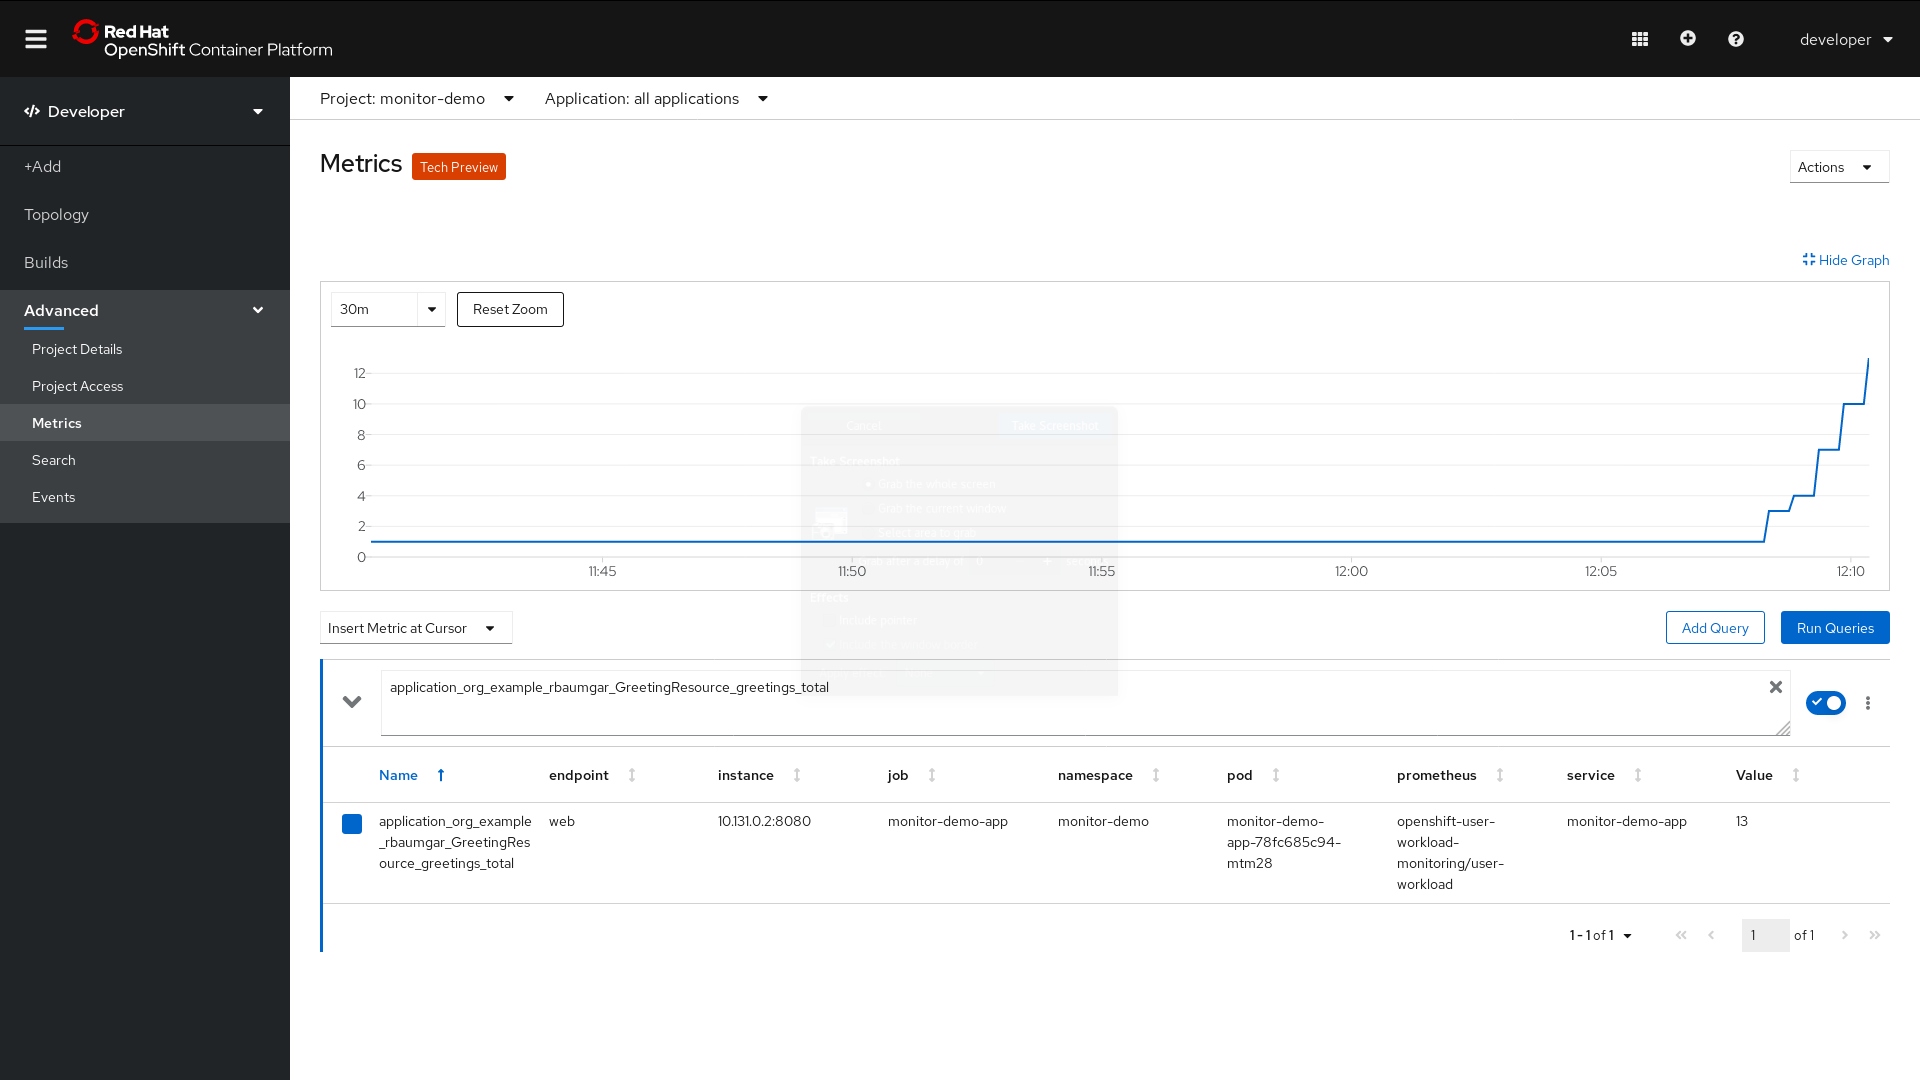
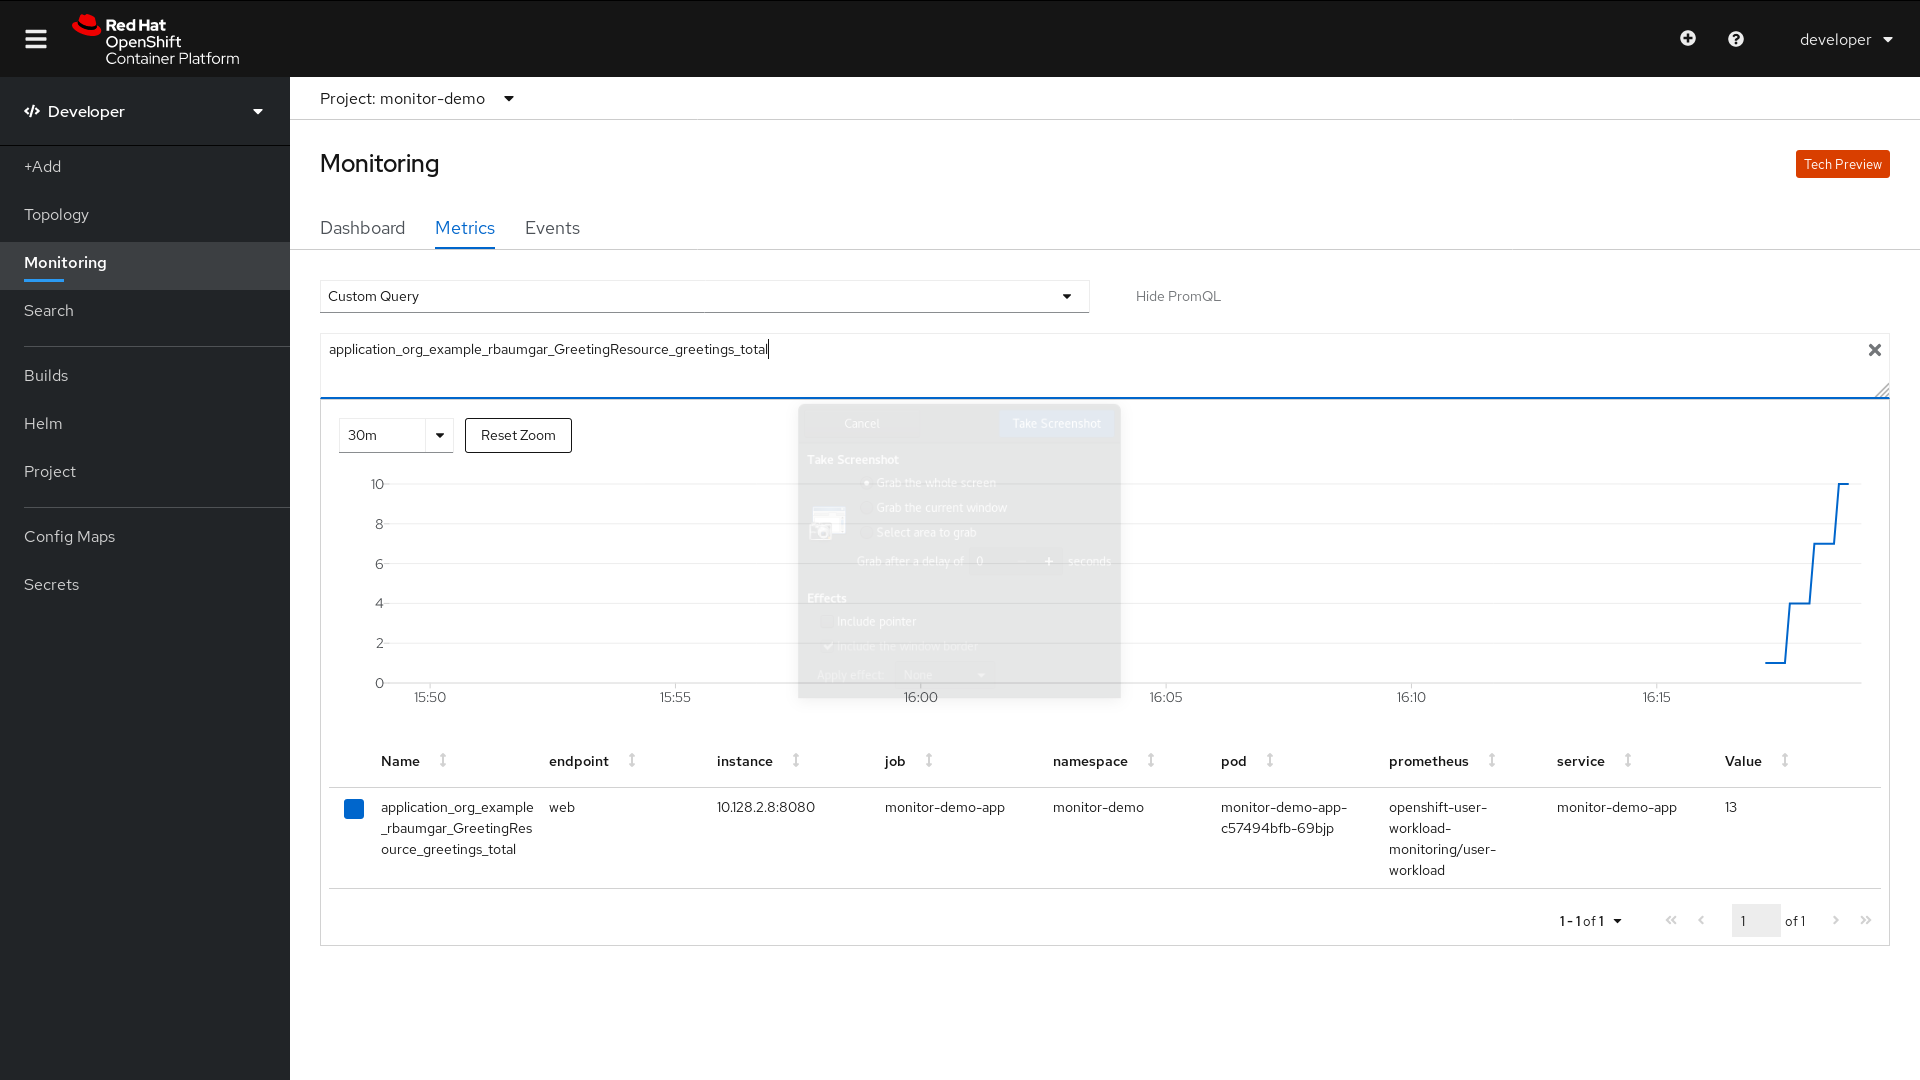
update OpenShift 4.5

diff --git a/src/main/java/org/example/rbaumgar/GreetingResource.java b/src/main/java/org/example/rbaumgar/GreetingResource.java
@@ -2,6 +2,8 @@ package org.example.rbaumgar;
 
 import org.eclipse.microprofile.metrics.annotation.Counted;
 
+import io.quarkus.vertx.http.runtime.security.TrustedAuthenticationRequest;
+
 import javax.ws.rs.GET;
 import javax.ws.rs.Path;
 import javax.ws.rs.Produces;
@@ -13,7 +15,7 @@ public class GreetingResource {
     private String HOSTNAME =
     System.getenv().getOrDefault("HOSTNAME", "unknown");
  
-    @Counted(name = "greetings", description = "How many greetings we've given.")
+    @Counted(name = "greetings", description = "How many greetings we've given.", absolute = true)
     @GET
     @Produces(MediaType.TEXT_PLAIN)
     public String hello() {

diff --git a/application-monitoring.md b/application-monitoring.md
@@ -1,10 +1,8 @@
 # Enabling Monitoring and Scaling of Your Own Services/Application
 
-*By Robert Baumgartner, Red Hat Austria, April 2020*
+*By Robert Baumgartner, Red Hat Austria, April 2020 (OpenShift 4.3), update July 2020 (OpenShift 4.5)*
 
 In this blog I will guide you on
-
-- =======
 
 - How to enable an application performance monitoring (APM).
 
@@ -14,18 +12,18 @@ For the monitoring, I will use the OpenShift Monitoring with a new feature for m
 
 You can use OpenShift Monitoring for your own services in addition to monitoring the cluster. This way, you do not need to use an additional monitoring solution. This helps keep monitoring centralized. Additionally, you can extend the access to the metrics of your services beyond cluster administrators. This enables developers and arbitrary users to access these metrics.
 
-This is based on OpenShift 4.3, which at this time is a Technical Preview. See https://docs.openshift.com/container-platform/4.3/monitoring/monitoring-your-own-services.html.
+This is based on OpenShift 4.5, which at this time is a Technical Preview. See [Monitoring your own services | Monitoring | OpenShift Container Platform 4.5](https://docs.openshift.com/container-platform/4.5/monitoring/monitoring-your-own-services.html).
 
 ## Enabling Monitoring of Your Own Services
 
 A cluster administrator has to enable the User Workload Monitoring once. 
 
-As of OpenShift 4.3, this is done by an update on the configmap within the project openshift-monitoring.
+As of OpenShift 4.5, this is done by an update on the configmap within the project openshift-monitoring.
 
 Make sure you are logged in as cluster-admin:
 
 ```shell
-cat <<EOF | oc apply -f -
+$ cat <<EOF | oc apply -f -
 apiVersion: v1
 kind: ConfigMap
 metadata:
@@ -40,15 +38,21 @@ EOF
 
 After a short time, you can check that the prometheus-user-workload pods were created and running:
 
-```bash
-oc get pod -n openshift-user-workload-monitoring 
+```shell
+$ oc get pod -n openshift-user-workload-monitoring 
 NAME                                   READY   STATUS    RESTARTS   AGE
-prometheus-operator-7bcc9cc899-p8cbr   1/1     Running   1          10h
-prometheus-user-workload-0             5/5     Running   6          10h
-prometheus-user-workload-1             5/5     Running   6          10h
+prometheus-operator-7bcc9cc899-p8cbr   1/1     Running   0          10h
+prometheus-user-workload-0             5/5     Running   1          10h
+prometheus-user-workload-1             5/5     Running   1          10h
+thanos-ruler-user-workload-0           3/3     Running   0          10h
+thanos-ruler-user-workload-1           3/3     Running   0          10h
 ```
 
+The thanos-ruler-user-workload pods are not available in OpenShift 4.3.
+
 ## Create Metrics Collection Role
+
+This role is no longer needed in OpenShift 4.5! Only needed in OpenShift 4.3/4.4.
 
 Create a new role for setting up metrics collection:
 
@@ -80,9 +84,11 @@ to build a new example application in Python. Or use kubectl to deploy a simple 
     kubectl create deployment hello-node --image=gcr.io/hello-minikube-zero-install/hello-node
 $ oc policy add-role-to-user admin developer -n monitor-demo 
 clusterrole.rbac.authorization.k8s.io/admin added: "developer"
-$ oc policy add-role-to-user monitor-crd-edit developer -n monitor-demo 
-clusterrole.rbac.authorization.k8s.io/monitor-crd-edit added: "developer"
+$ oc policy add-role-to-user monitoring-edit developer -n monitor-demo 
+clusterrole.rbac.authorization.k8s.io/monitoring-edit added: "developer"
 ```
+
+In OpenShift 4.3/4.4 the role monitor-crd-edit has to be assigned to the user developer!
 
 ## Login as the Normal User
 
@@ -241,7 +247,9 @@ Once you have enabled monitoring your own services, deployed a service, and set 
      
      :star: Only cluster administrators have access to the Alertmanager and Prometheus UIs.
    
-   - To access the metrics as a developer or a user with permissions, go to the OpenShift Container Platform web console, switch to the Developer Perspective, then click **Advanced** → **Metrics**. Select the project you want to see the metrics for.
+   - To access the metrics as a developer or a user with permissions, go to the OpenShift Container Platform web console, switch to the Developer Perspective, then click **Metrics**. In OpenShift 4.3 click on 
+     
+     **Advanced → Metrics**.
      
      :star: Developers can only use the Developer Perspective. They can only query metrics from a single project.
 
@@ -249,7 +257,7 @@ Once you have enabled monitoring your own services, deployed a service, and set 
 
 Here is an example:
 
-![](images/metrics_view.png)
+![kus/monitor-demo-app/images/metrics_view.png)](/home/rbaumgar/demo/quarkus/monitor-demo-app/images/metrics_view.png)
 
 You can generate load onto your application, and so will see more on the graph.
 
@@ -277,7 +285,7 @@ You can export application metrics for the Horizontal Pod Autoscaler (HPA).
 
 The following steps are based on OpenShift 4.3 Prometheus Adapter: 
 
-Prometheus Adapter is a Technology Preview feature only. See [Exposing custom application metrics for autoscaling | Monitoring | OpenShift Container Platform 4.3](https://docs.openshift.com/container-platform/4.3/monitoring/exposing-custom-application-metrics-for-autoscaling.html)
+Prometheus Adapter is a Technology Preview feature only. See [Exposing custom application metrics for autoscaling | Monitoring | OpenShift Container Platform 4.5](https://docs.openshift.com/container-platform/4.5/monitoring/exposing-custom-application-metrics-for-autoscaling.html).
 
 ### Create Service Account
 
@@ -335,6 +343,19 @@ Add the newly created cluster-role bindings for the service account (custom-metr
 ```shell
 $ cat <<EOF | oc apply -f -
 apiVersion: rbac.authorization.k8s.io/v1
+kind: ClusterRoleBinding
+metadata:
+  name: custom-metrics:system:auth-delegator
+roleRef:
+  apiGroup: rbac.authorization.k8s.io
+  kind: ClusterRole
+  name: system:auth-delegator
+subjects:
+- kind: ServiceAccount
+  name: custom-metrics-apiserver
+  namespace: monitor-demo
+---
+apiVersion: rbac.authorization.k8s.io/v1
 kind: RoleBinding
 metadata:
   name: custom-metrics-auth-reader
@@ -374,6 +395,7 @@ subjects:
   name: horizontal-pod-autoscaler
   namespace: kube-system
 EOF
+clusterrolebinding.rbac.authorization.k8s.io/custom-metrics:system:auth-delegator created
 rolebinding.rbac.authorization.k8s.io/custom-metrics-auth-reader created
 clusterrolebinding.rbac.authorization.k8s.io/custom-metrics-resource-reader created
 clusterrolebinding.rbac.authorization.k8s.io/hpa-controller-custom-metrics created
@@ -381,34 +403,7 @@ clusterrolebinding.rbac.authorization.k8s.io/hpa-controller-custom-metrics creat
 
 :star: If you are using a different namespace, please don't forget to replace the namespace (monitor-demo).
 
-You need an additional role, which is currently not documented:
-
-```shell
-cat <<EOF | oc apply -f -
-apiVersion: rbac.authorization.k8s.io/v1
-kind: ClusterRoleBinding
-metadata:
-  name: custom-metrics:system:auth-delegator
-roleRef:
-  apiGroup: rbac.authorization.k8s.io
-  kind: ClusterRole
-  name: system:auth-delegator
-subjects:
-- kind: ServiceAccount
-  name: custom-metrics-apiserver
-  namespace: monitor-demo
-EOF
-```
-
-:star: If you do not add this role to the service account, you will later get following error in the log of the Prometheus Adapter:
-
-```shell
-logging error output: "Internal Server Error: \"/apis/custom.metrics.k8s.io/v1beta1?timeout=32s\": subjectaccessreviews.authorization.k8s.io is forbidden: User \"system:serviceaccount:monitor-demo:custom-metrics-apiserver\" cannot create resource \"subjectaccessreviews\" in API group \"authorization.k8s.io\" at the cluster scope\n"
- [hyperkube/v1.16.2 (linux/amd64) kubernetes/ebf9a26/controller-discovery 10.128.0.1:43004]
-E0414 10:43:35.168164       1 webhook.go:196] Failed to make webhook authorizer request: subjectaccessreviews.authorization.k8s.io is forbidden: User "system:serviceaccount:monitor-demo:custom-metrics-apiserver" cannot create resource "subjectaccessreviews" in API group "authorization.k8s.io" at the cluster scope
-E0414 10:43:35.168288       1 errors.go:77] subjectaccessreviews.authorization.k8s.io is forbidden: User "system:serviceaccount:monitor-demo:custom-metrics-apiserver" cannot create resource "subjectaccessreviews" in API group "authorization.k8s.io" at the cluster scope
-I0414 10:43:35.168323       1 wrap.go:47] GET /apis/custom.metrics.k8s.io/v1beta1?timeout=32s: (1.963244ms) 500
-```
+Clusterrole custom-metrics:system:auth-delegator was not documented in OpenShift 4.3.
 
 ### Create an APIService
 
@@ -475,7 +470,7 @@ metadata:
 data:
   config.yaml: |
     rules:
-    - seriesQuery: ''application_org_example_rbaumgar_GreetingResource_greetings_total' {namespace!="",pod!=""}' 
+    - seriesQuery: 'application_org_example_rbaumgar_GreetingResource_greetings_total {namespace!="",pod!=""}' 
       resources:
         overrides:
           namespace: {resource: "namespace"}
@@ -549,6 +544,8 @@ data:
     - name: prometheus-k8s
       user:
         tokenFile: /var/run/secrets/kubernetes.io/serviceaccount/token
+EOF
+configmap/prometheus-adapter-prometheus-config created
 ```
 
 ## Configuration for Deploying the Prometheus Adapter
@@ -703,7 +700,7 @@ Since we have set up Prometheus Adapter to collect the user metrics, we no have 
 Now we are at the last step of the setup. Create a Horizontal Pod Autoscaler (HPA) to scale the sample application depended on the load, scaled by the user metrics *my_http_requests*. 
 
 ```shell
-cat <<EOF | oc apply -f -
+$ cat <<EOF | oc apply -f -
 apiVersion: autoscaling/v2beta2 
 kind: HorizontalPodAutoscaler
 metadata:
@@ -718,10 +715,14 @@ spec:
   metrics:
     - type: Pods
       pods:
-        metricName: my_http_requests
-      # target 1000 milli-requests per second = 1 req/second 
-        targetAverageValue: '1'
+        metric:
+          name: my_http_requests
+        target:
+          type: AverageValue
+          # target 1000 milli-requests per second = 1 req/second 
+          averageValue: 1
 EOF
+horizontalpodautoscaler.autoscaling/monitor-demo-hpa created
 ```
 
 Now it is time do the final test!
